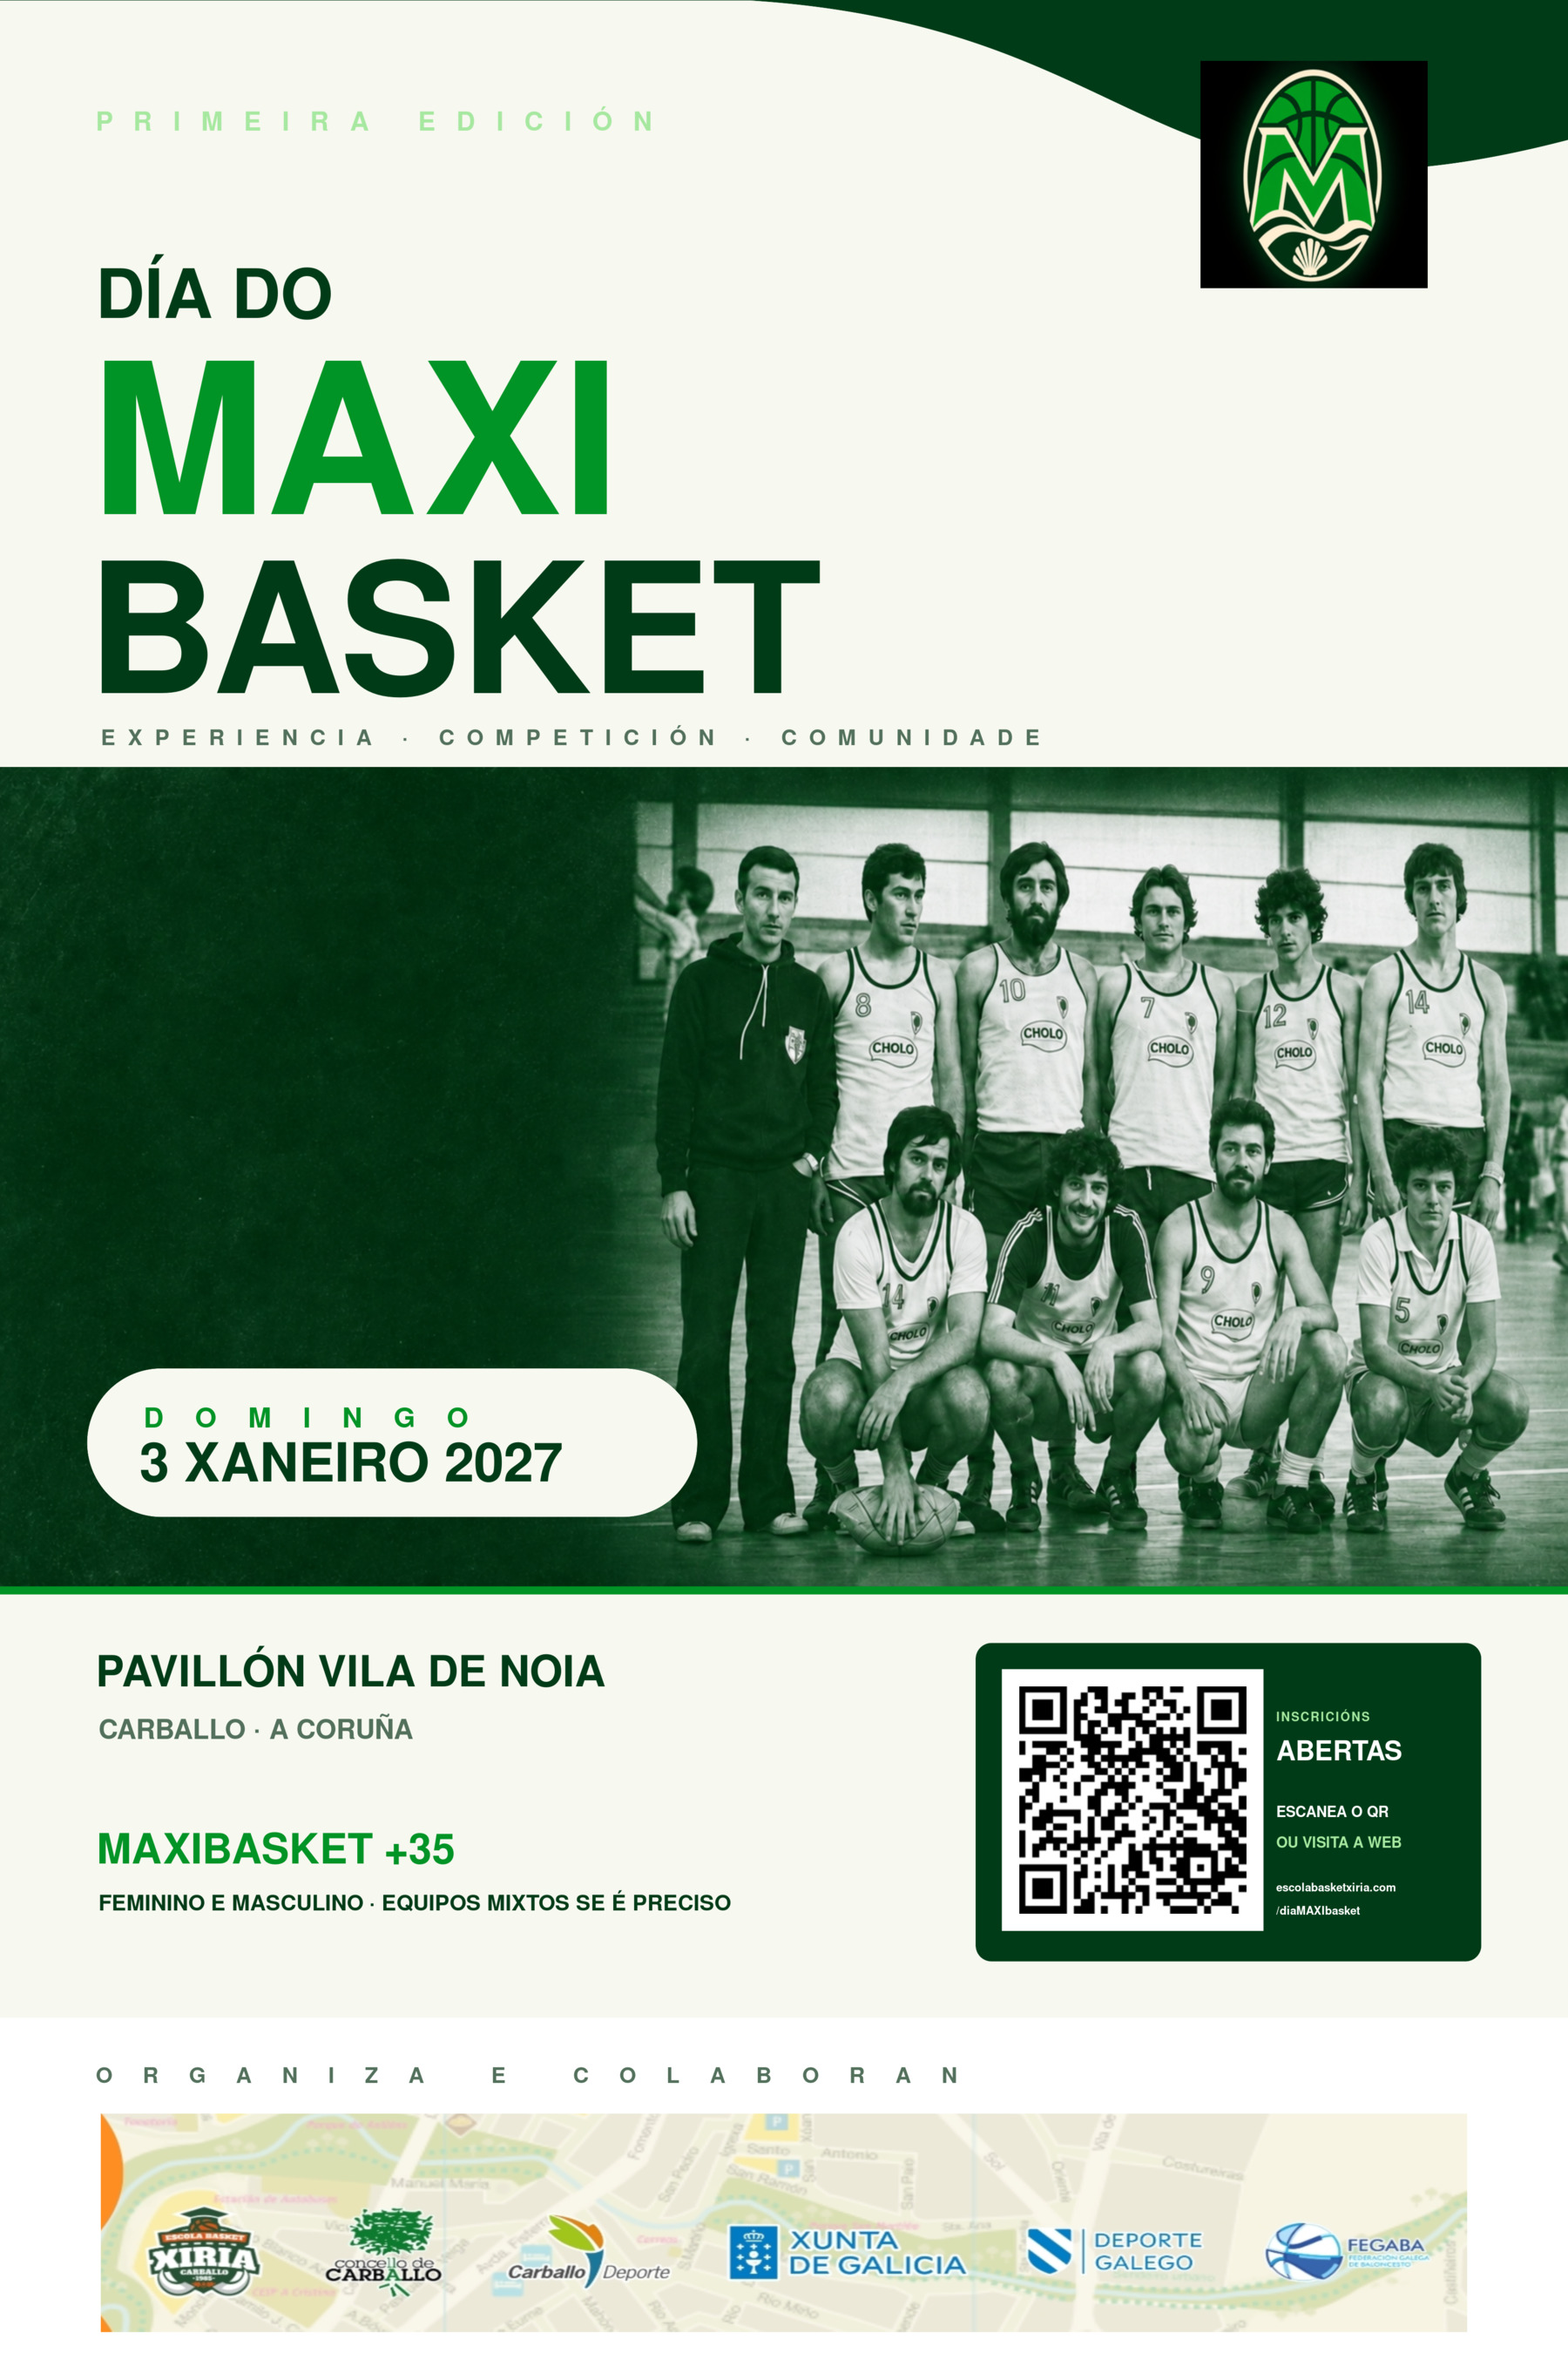
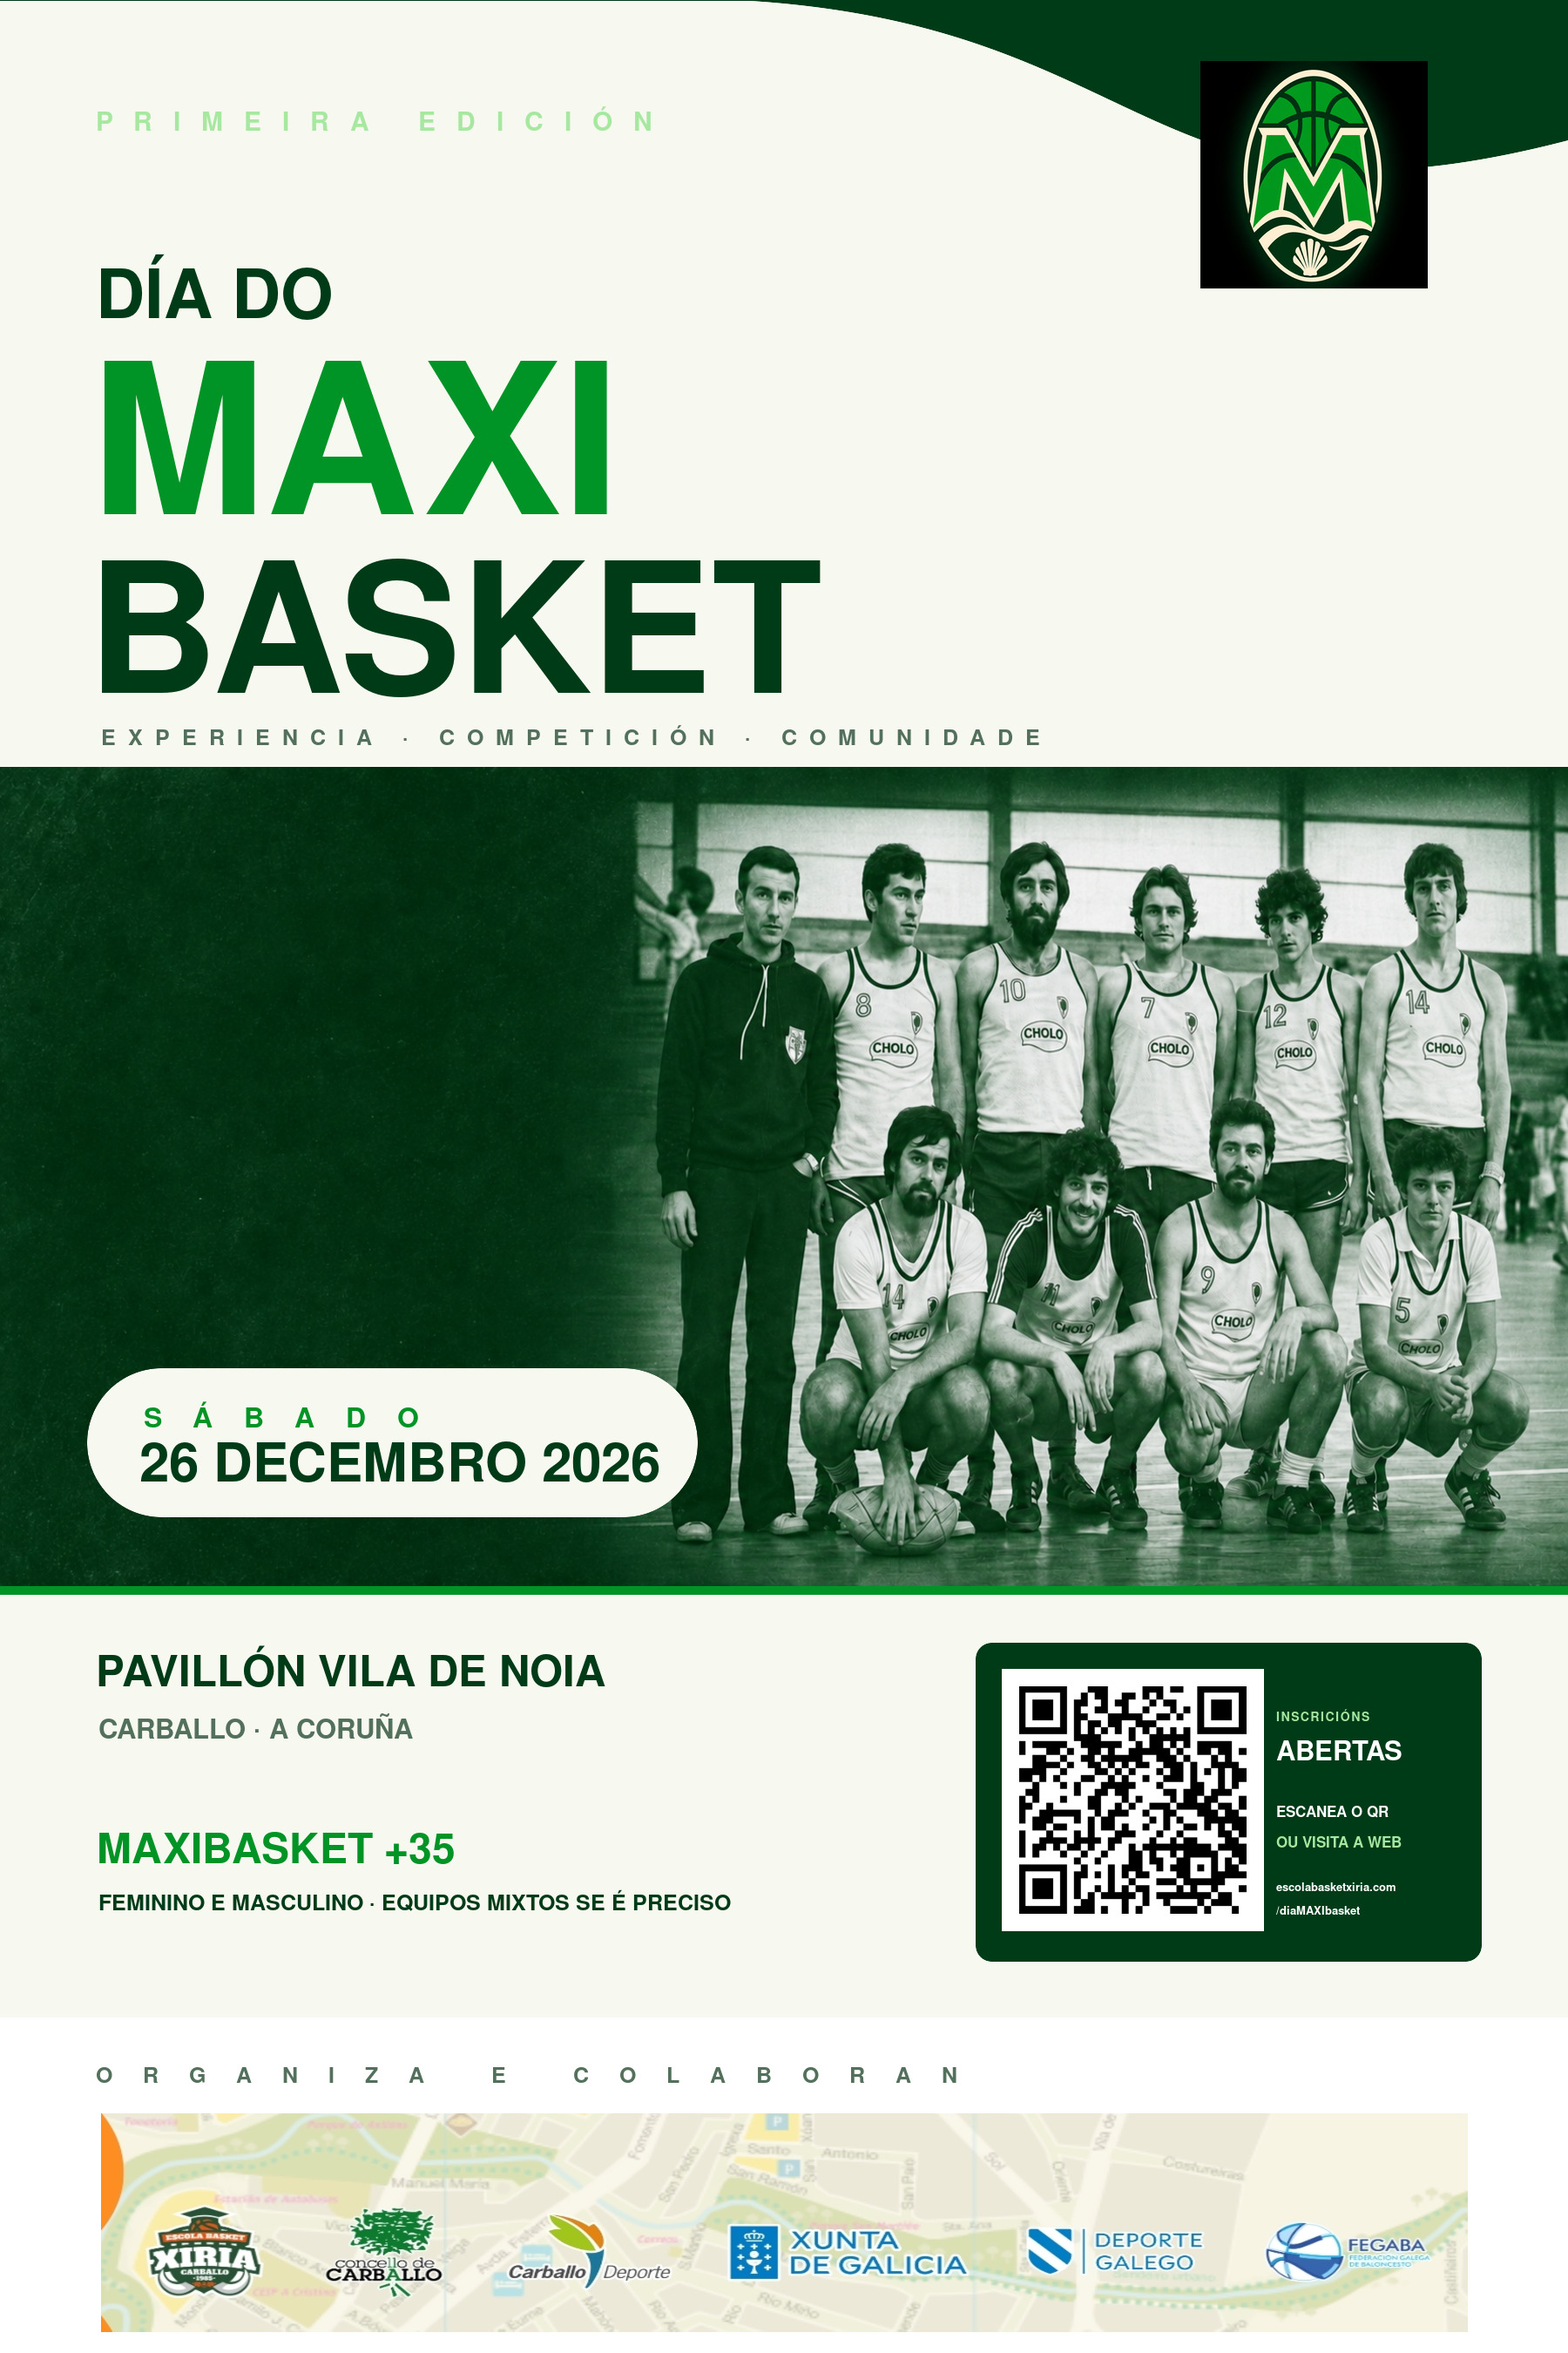
Update Site source

diff --git a/dist/index.html b/dist/index.html
@@ -3,19 +3,19 @@
 <head>
   <meta charset="UTF-8" />
   <meta name="viewport" content="width=device-width, initial-scale=1.0" />
-  <meta name="description" content="Día do Maxibasket Carballo — 3 de xaneiro de 2027" />
-  <title>Día do Maxibasket · Carballo 2027</title>
+  <meta name="description" content="Día do Maxibasket Carballo — 26 de decembro de 2026" />
+  <title>Día do Maxibasket · Carballo 2026</title>
   <link rel="preconnect" href="https://fonts.googleapis.com" />
   <link rel="preconnect" href="https://fonts.gstatic.com" crossorigin />
   <link href="https://fonts.googleapis.com/css2?family=Barlow+Condensed:wght@500;600;700;800;900&family=DM+Sans:wght@400;500;600;700&display=swap" rel="stylesheet" />
   <link rel="stylesheet" href="styles.css" />
 </head>
 <body>
-  <div class="topline">CARBALLO · A CORUÑA <span></span> 3 XANEIRO 2027 <span></span> MAXIBASKET +35</div>
+  <div class="topline">CARBALLO · A CORUÑA <span></span> 26 DECEMBRO 2026 <span></span> MAXIBASKET +35</div>
   <header class="site-header" id="inicio">
     <a class="brand" href="#inicio" aria-label="Inicio Día do Maxibasket">
       <img src="assets/maxibasket-emblem-green.png" alt="Emblema Día do Maxibasket" />
-      <span><strong>DÍA DO</strong><b>MAXIBASKET</b><em>CARBALLO 2027</em></span>
+      <span><strong>DÍA DO</strong><b>MAXIBASKET</b><em>CARBALLO 2026</em></span>
     </a>
     <button class="nav-toggle" aria-label="Abrir menú" aria-expanded="false"><i></i><i></i></button>
     <nav aria-label="Navegación principal">
@@ -41,7 +41,7 @@
           <a class="button button-ghost" href="#evento">Coñece o torneo</a>
         </div>
       </div>
-      <div class="date-lockup"><strong>03</strong><span>XAN<br />2027</span></div>
+      <div class="date-lockup"><strong>26</strong><span>DEC<br />2026</span></div>
       <a class="scroll-cue" href="#evento">BAIXAR <span>↓</span></a>
     </section>
 
@@ -50,12 +50,12 @@
       <div class="intro-grid">
         <h2>Un día enteiro para<br /><em>xogar como sempre.</em></h2>
         <div class="intro-text">
-          <p>Carballo abre a pista á comunidade maxibasket. O 3 de xaneiro, o Pavillón Vila de Noia será punto de encontro de equipos masculinos e femininos de máis de 35 anos.</p>
+          <p>Carballo abre a pista á comunidade maxibasket. O 26 de decembro, o Pavillón Vila de Noia será punto de encontro de equipos masculinos e femininos de máis de 35 anos.</p>
           <p>Competición, amizade e paixón polo balón. A composición dos grupos adaptarase ás inscricións e poderá ser mixta se fose necesario para garantir que todo o mundo xogue.</p>
         </div>
       </div>
       <div class="facts">
-        <article><span>DATA</span><b>Domingo<br />3 de xaneiro</b><small>2027 · día completo</small></article>
+        <article><span>DATA</span><b>Sábado<br />26 de decembro</b><small>2026 · día completo</small></article>
         <article><span>LUGAR</span><b>Pavillón<br />Vila de Noia</b><small>Carballo · A Coruña</small></article>
         <article><span>CATEGORÍAS</span><b>+35<br />fem. e masc.</b><small>Equipos mixtos se é preciso</small></article>
         <article><span>FORMATO</span><b>Partidos<br />para gozar</b><small>Detalles proximamente</small></article>
@@ -63,14 +63,14 @@
     </section>
 
     <section class="poster-band" aria-label="Cartel do torneo">
-      <div class="poster-type"><p>PRIMEIRA EDICIÓN</p><h2>DÍA DO<br /><span>MAXI</span>BASKET</h2><div class="poster-date">CARBALLO · 03.01.2027</div></div>
+      <div class="poster-type"><p>PRIMEIRA EDICIÓN</p><h2>DÍA DO<br /><span>MAXI</span>BASKET</h2><div class="poster-date">CARBALLO · 26.12.2026</div></div>
       <div class="poster-circle"><img src="assets/maxibasket-emblem-green.png" alt="" /></div>
       <div class="poster-note">PAVILLÓN<br />VILA DE NOIA<br /><b>+35</b></div>
     </section>
 
     <section class="carteleria section" id="carteleria">
       <div class="carteleria-copy"><div class="section-kicker">02 · CARTELERÍA</div><h2>O cartel<br /><em>oficial.</em></h2><p>Descarga e comparte o cartel do primeiro Día do Maxibasket de Carballo.</p><a class="button button-primary" href="assets/cartel-maxibasket-carballo-2027.png" target="_blank" rel="noreferrer" download>Descargar PNG alta calidade <b>↓</b></a></div>
-      <a class="cartel-preview" href="assets/cartel-maxibasket-carballo-2027.png" target="_blank" rel="noreferrer" aria-label="Abrir cartel oficial a tamaño completo"><img src="assets/cartel-maxibasket-carballo-2027.png" alt="Cartel oficial do Día do Maxibasket Carballo 2027" /><span>VER CARTEL COMPLETO ↗</span></a>
+      <a class="cartel-preview" href="assets/cartel-maxibasket-carballo-2027.png" target="_blank" rel="noreferrer" aria-label="Abrir cartel oficial a tamaño completo"><img src="assets/cartel-maxibasket-carballo-2027.png" alt="Cartel oficial do Día do Maxibasket Carballo 2026" /><span>VER CARTEL COMPLETO ↗</span></a>
     </section>
 
     <section class="registration section" id="inscricion">
@@ -95,7 +95,7 @@
     <section class="news section" id="novas">
       <div class="news-header"><div><div class="section-kicker">05 · ACTUALIDADE</div><h2>Últimas<br /><em>novas.</em></h2></div><a href="#contacto" class="text-link">Contactar coa organización →</a></div>
       <div class="news-grid">
-        <article class="featured-news"><span>NOVIDADE · 12.11.2026</span><h3>Nace o Día do Maxibasket de Carballo.</h3><p>O primeiro encontro dedicado ao baloncesto sénior xa ten data: o 3 de xaneiro de 2027.</p><a href="#evento">Ler máis <b>→</b></a></article>
+        <article class="featured-news"><span>NOVIDADE · 12.11.2026</span><h3>Nace o Día do Maxibasket de Carballo.</h3><p>O primeiro encontro dedicado ao baloncesto sénior xa ten data: o 26 de decembro de 2026.</p><a href="#evento">Ler máis <b>→</b></a></article>
         <article><span>INSCRICIÓNS ABERTAS</span><h3>Consulta a ficha de inscrición e as normas.</h3><a href="https://www.escolabasketxiria.com/diaMAXIbasket" target="_blank" rel="noreferrer">Ver inscrición <b>→</b></a></article>
         <article><span>PRÓXIMAMENTE</span><h3>Horarios, grupos e información de servizos.</h3><a href="#horarios">Ver horarios <b>→</b></a></article>
       </div>
@@ -106,7 +106,7 @@
       <div class="contact-content section"><div><div class="section-kicker">06 · CONTACTO</div><h2>Falamos<br /><em>de baloncesto.</em></h2></div><div class="contact-details"><p>Para participar, colaborar ou resolver calquera dúbida:</p><a href="mailto:info@diapequebasket.es">info@diapequebasket.es</a><a href="tel:+34607847925">607 847 925</a><p class="contact-small">Organiza Escola Basket Xiria, coa colaboración do Concello de Carballo e entidades vinculadas ao baloncesto galego.</p></div></div>
     </section>
   </main>
-  <footer><a class="brand footer-brand" href="#inicio"><img src="assets/maxibasket-emblem-green.png" alt="" /><span><strong>DÍA DO</strong><b>MAXIBASKET</b></span></a><p>Carballo · 3 de xaneiro de 2027</p><p>Organiza <a href="https://www.escolabasketxiria.com/" target="_blank" rel="noreferrer">Escola Basket Xiria</a></p></footer>
+  <footer><a class="brand footer-brand" href="#inicio"><img src="assets/maxibasket-emblem-green.png" alt="" /><span><strong>DÍA DO</strong><b>MAXIBASKET</b></span></a><p>Carballo · 26 de decembro de 2026</p><p>Organiza <a href="https://www.escolabasketxiria.com/" target="_blank" rel="noreferrer">Escola Basket Xiria</a></p></footer>
   <script src="script.js"></script>
 </body>
 </html>

diff --git a/dist/styles.css b/dist/styles.css
@@ -77,7 +77,7 @@ nav a:hover:after{width:100%}
 .schedule-inner{display:grid;grid-template-columns:.85fr 1.15fr;gap:10vw}
 .schedule-heading h2{font-size:clamp(53px,6vw,95px);margin-top:34px}
 .schedule-card{background:var(--ink);color:var(--cream);padding:clamp(35px,5vw,68px);position:relative;overflow:hidden}
-.schedule-card:after{content:'03';position:absolute;right:-11px;bottom:-42px;font:900 230px 'Barlow Condensed',sans-serif;color:rgba(247,248,240,.05)}
+.schedule-card:after{content:'26';position:absolute;right:-11px;bottom:-42px;font:900 230px 'Barlow Condensed',sans-serif;color:rgba(247,248,240,.05)}
 .schedule-icon{font:600 41px serif;color:var(--orange)}
 .schedule-card h3{font:700 39px/.9 'Barlow Condensed',sans-serif;text-transform:uppercase;margin:18px 0}
 .schedule-card p{font-size:14px;line-height:1.7;max-width:440px;position:relative;z-index:1}
